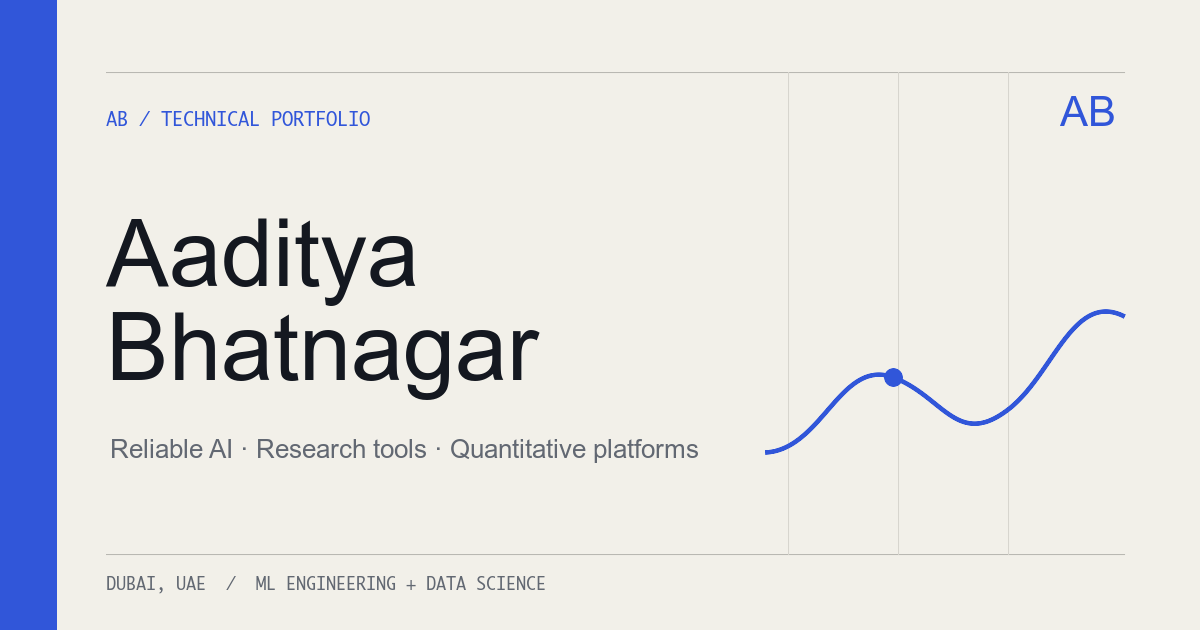
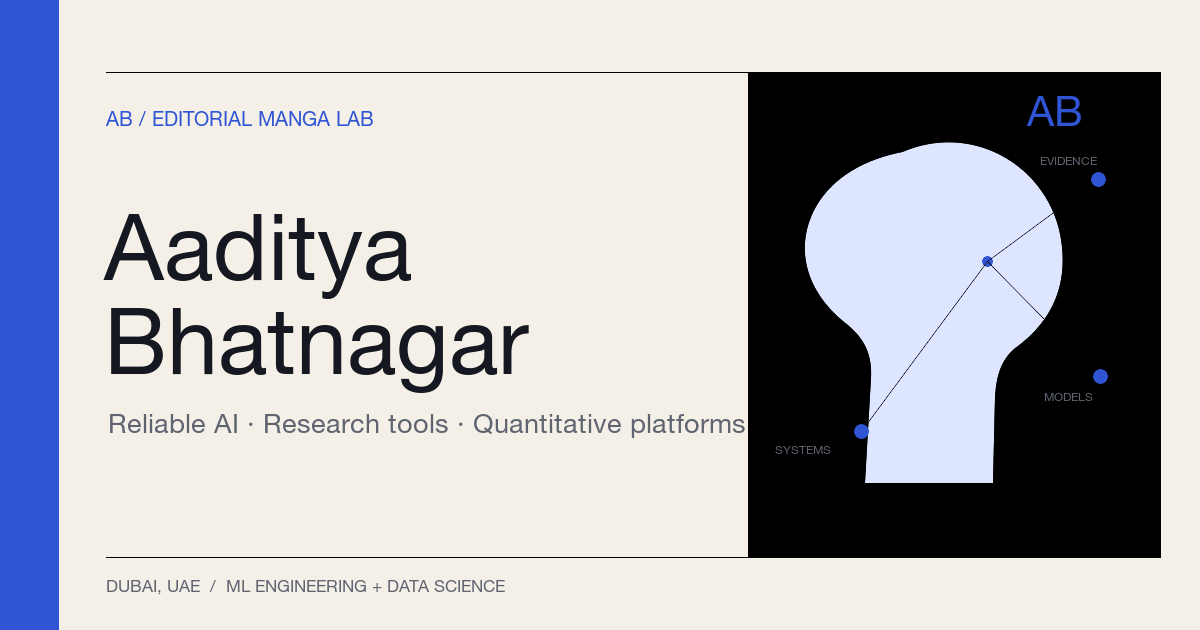
refactor: polish editorial presentation

diff --git a/src/styles/research.css b/src/styles/research.css
@@ -4,12 +4,12 @@
 }
 
 .research-section .section-heading {
-  border-color: #526071;
+  border-color: var(--night-rule-strong);
 }
 
 .research-section .section-index,
 .research-section .eyebrow {
-  color: #aabaff;
+  color: var(--night-accent);
 }
 
 .research-section .section-heading p {
@@ -17,12 +17,12 @@
 }
 
 .research-list {
-  border-top: 1px solid #394553;
+  border-top: 1px solid var(--night-rule);
 }
 
 .research-note {
   padding-block: clamp(2.7rem, 6vw, 5rem);
-  border-bottom: 1px solid #394553;
+  border-bottom: 1px solid var(--night-rule);
 }
 
 .research-note-header {
@@ -30,7 +30,7 @@
   justify-content: space-between;
   gap: 1rem;
   padding-bottom: .8rem;
-  border-bottom: 1px solid #303a47;
+  border-bottom: 1px solid var(--night-rule-soft);
 }
 
 .research-note-header > div {
@@ -40,14 +40,14 @@
 }
 
 .research-status {
-  color: #aabaff;
+  color: var(--night-accent);
   font-family: var(--font-mono);
   font-size: .67rem;
   text-transform: uppercase;
 }
 
 .research-note .meta {
-  color: #7f8b9a;
+  color: var(--night-faint);
 }
 
 .research-note-grid {
@@ -73,18 +73,18 @@
 }
 
 .research-note .tag::before {
-  color: #8da5ff;
+  color: var(--night-accent-strong);
 }
 
 .research-question {
   padding: 1rem;
-  border: 1px solid #445061;
-  background: #141d29;
+  border: 1px solid var(--night-rule-strong);
+  background: var(--night-surface);
   clip-path: polygon(0 0, calc(100% - 16px) 0, 100% 16px, 100% 100%, 0 100%);
 }
 
 .research-question .annotation {
-  color: #8da5ff;
+  color: var(--night-accent-strong);
   text-transform: uppercase;
 }
 
@@ -99,7 +99,7 @@
   grid-template-columns: repeat(2, minmax(0, 1fr));
   gap: 1px;
   margin: 0;
-  background: #35404e;
+  background: var(--night-rule);
 }
 
 .research-fields > div {
@@ -109,7 +109,7 @@
 
 .research-fields dt {
   margin-bottom: .4rem;
-  color: #8da5ff;
+  color: var(--night-accent-strong);
   font-family: var(--font-mono);
   font-size: .62rem;
   letter-spacing: .05em;
@@ -123,7 +123,7 @@
 }
 
 .research-fields .research-result {
-  border-left: 2px solid #8da5ff;
+  border-left: 2px solid var(--night-accent-strong);
 }
 
 .research-fields .research-result dd {
@@ -132,7 +132,7 @@
 
 .research-link {
   justify-self: start;
-  color: #aabaff;
+  color: var(--night-accent);
 }
 
 @media (max-width: 820px) {

diff --git a/src/styles/layout.css b/src/styles/layout.css
@@ -186,7 +186,7 @@
 
 .site-footer {
   padding-block: 1.35rem;
-  border-top: 1px solid #2f3744;
+  border-top: 1px solid var(--night-rule);
   background: var(--night);
   color: var(--night-muted);
   font-size: .74rem;
@@ -222,8 +222,8 @@
   width: 2rem;
   height: 2rem;
   place-items: center;
-  border: 1px solid #394454;
-  color: #8ba2ff;
+  border: 1px solid var(--night-rule);
+  color: var(--night-accent-strong);
   font-family: var(--font-mono);
   font-size: .62rem;
 }

diff --git a/src/data/research.ts b/src/data/research.ts
@@ -1,5 +1,3 @@
-import { projectBySlug } from './projects';
-
 export type ResearchEntryData = {
   title: string;
   dates: string;
@@ -44,5 +42,3 @@ export const research: ResearchEntryData[] = [
     openQuestion: 'How consistently do bounded activations generalize across model architectures and perturbation levels?',
   },
 ] as const;
-
-export const unlearningProject = projectBySlug('machine-unlearning-vision-language-models');

diff --git a/src/pages/manifest.webmanifest.ts b/src/pages/manifest.webmanifest.ts
@@ -9,8 +9,8 @@ export const GET: APIRoute = () => {
     start_url: withBase('/'),
     scope: withBase('/'),
     display: 'standalone',
-    background_color: '#f2f0e9',
-    theme_color: '#3156d9',
+    background_color: '#f4f0e7',
+    theme_color: '#2f55d4',
     icons: [{ src: withBase('/favicon.svg'), sizes: 'any', type: 'image/svg+xml' }],
     id: new URL(withBase('/'), siteConfig.url).toString(),
   };

diff --git a/src/styles/tokens.css b/src/styles/tokens.css
@@ -16,6 +16,13 @@
   --night-raised: #171f2b;
   --night-ink: #f2efe8;
   --night-muted: #b3bac5;
+  --night-faint: #7f8b9a;
+  --night-surface: #141d29;
+  --night-rule-soft: #303a47;
+  --night-rule: #394553;
+  --night-rule-strong: #526071;
+  --night-accent: #aabaff;
+  --night-accent-strong: #8da5ff;
   --danger: #9d3038;
   --visual-grounddesk: #e7ebfa;
   --visual-mlp: #e4ece8;

diff --git a/src/data/projects.ts b/src/data/projects.ts
@@ -187,4 +187,3 @@ export const projects: Project[] = [
 
 export const featuredProjects = projects.filter((project) => project.featured);
 export const detailProjects = projects.filter((project) => project.detail);
-export const projectBySlug = (slug: string) => projects.find((project) => project.slug === slug);

diff --git a/src/styles/projects.css b/src/styles/projects.css
@@ -395,7 +395,7 @@
 
 .detail-meta {
   display: grid;
-  grid-template-columns: repeat(2, minmax(140px, .35fr)) minmax(280px, 1.3fr);
+  grid-template-columns: repeat(auto-fit, minmax(220px, 1fr));
   gap: 1px;
   margin-top: clamp(2.5rem, 6vw, 5rem);
   border-block: 1px solid var(--rule);
